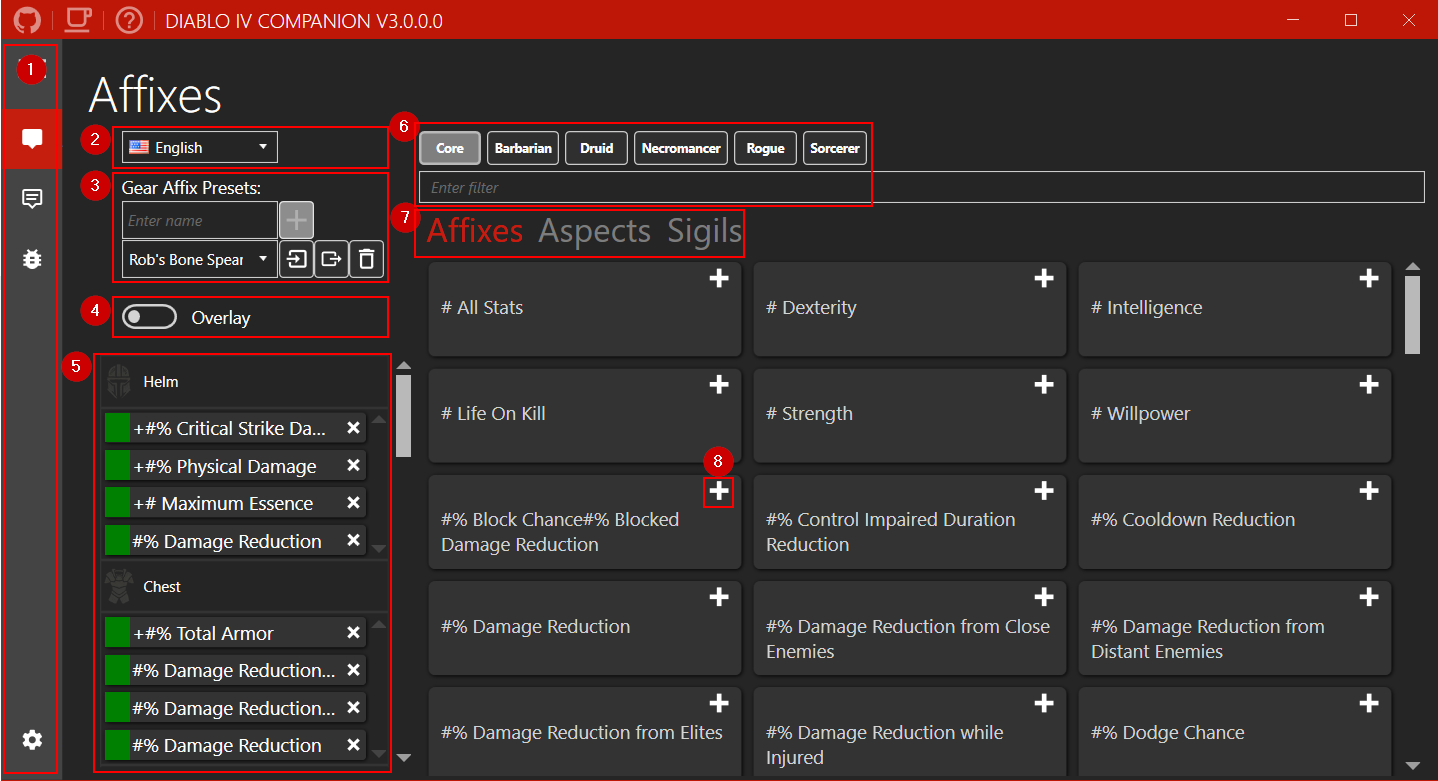
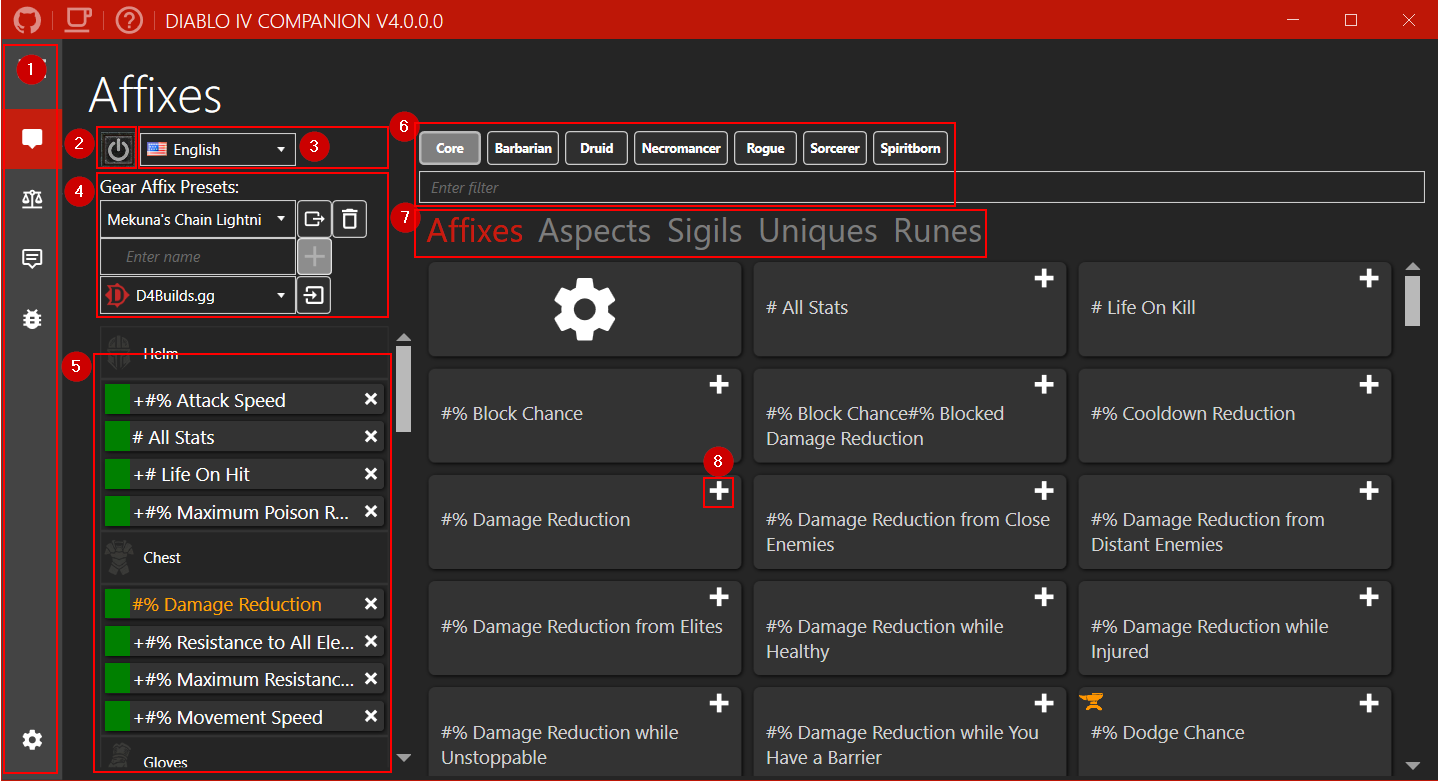
Updated readme for v4

diff --git a/README.md b/README.md
@@ -101,13 +101,13 @@ See the following [wiki](https://github.com/josdemmers/Diablo4Companion/wiki/How
 
 ![Usage-1](./readme/readme-002.png)
 
-1. Navigation menu. In the following order, Affixes, Logging, Debug, and Settings.
-2. Change language for affixes.
-3. Create, select, or delete affix presets. The import/export buttons can be used to share your builds, or to import builds from Maxroll and D4Builds. See [wiki](https://github.com/josdemmers/Diablo4Companion/wiki/How-to-import-and-export-builds) for more details.
-4. Toggle the overlay on/off. Note: This is also possible using the ingame button in the top left corner.
+1. Navigation menu. In the following order, Affixes, Trade, Logging, Debug, and Settings.
+2. Toggle the overlay on/off. Note: This is also possible using the ingame button in the top left corner.
+3. Change language for affixes.
+4. Create, select, or delete affix presets. The import/export buttons can be used to share your builds, or to import builds from D4Builds, Maxroll and Mobalitics. See [wiki](https://github.com/josdemmers/Diablo4Companion/wiki/How-to-import-and-export-builds) for more details.
 5. Overview of selected affixes for each gear slot. Click to change color, or double click affix name to remove it.
 6. Filter affixes.
-7. Switch between affixes, aspects, and sigils.
+7. Switch between affixes, aspects, sigils, uniques, and runes.
 8. Adds the affix to your preset so you can monitor it ingame.
 
 ![Usage-2](./readme/readme-003.png)
@@ -137,12 +137,12 @@ MIT
 
 ## Thirdparty packages
 
+- [CsWin32](https://github.com/microsoft/CsWin32)
 - [Emgu CV](https://www.emgu.com/wiki/index.php/Main_Page)
 - [FuzzierSharp](https://github.com/AtriaStar/FuzzierSharp)
 - [GameOverlay.Net](https://github.com/michel-pi/GameOverlay.Net)
 - [MahApps.Metro](https://github.com/MahApps/MahApps.Metro)
 - [NHotkey](https://github.com/thomaslevesque/NHotkey)
-- [PInvoke](https://github.com/dotnet/pinvoke)
 - [Prism](https://github.com/PrismLibrary/Prism)
 - [TesseractOCR](https://github.com/Sicos1977/TesseractOCR)
 
